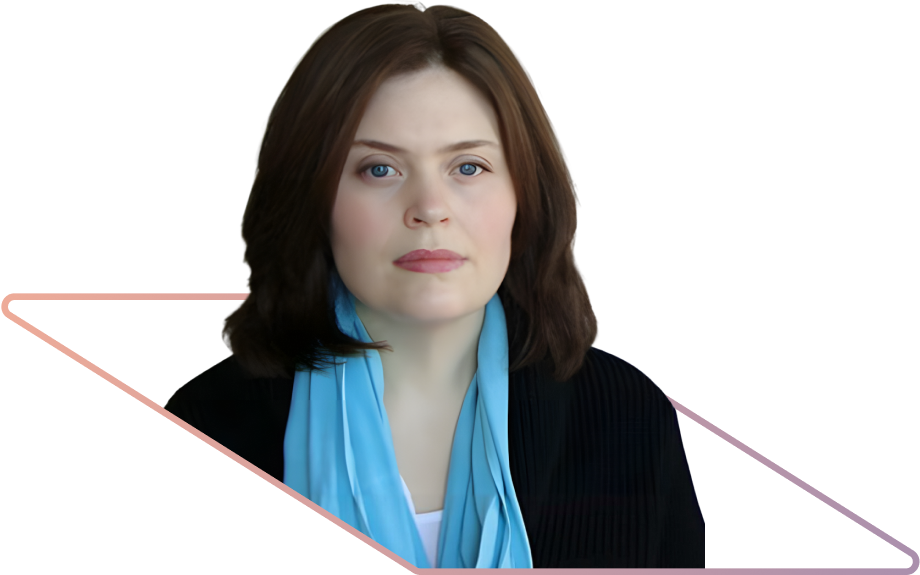
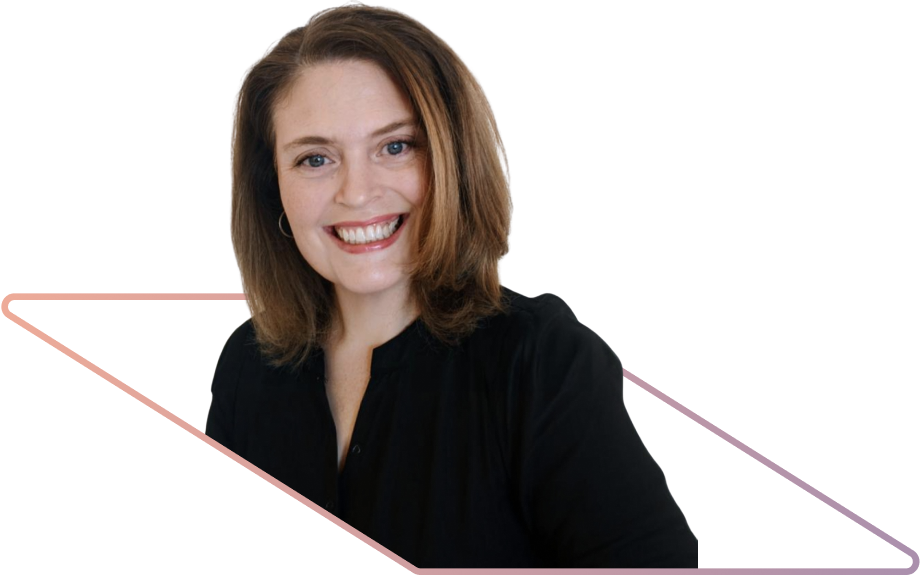
added new speakers

Changed region(s): [[0.2435, 0.0, 0.6696, 1.0], [0.6696, 0.6209, 0.7913, 1.0], [0.1826, 0.6209, 0.2435, 0.7687]]

diff --git a/js/speakers.js b/js/speakers.js
@@ -17,7 +17,7 @@ export const SPEAKERS = [
   { name: "Geetika Dadlani", role: "Head, Giving Pi & Associate Director, Dasra", summit: "What bold giving looks like from the inside", photo: "assets/speakers/Geetika Dadlani.png" },
   { name: "Ninad Karpe", role: "Founder & Partner, 100xVC", summit: "The moonshot investment thesis", photo: "assets/speakers/Ninad Karpe.png" },
   { name: "Nirav Khambhati", role: "Partner, The Blended Finance Company", summit: "The case for funding innovation", photo: "assets/speakers/Nirav Khambhati.png" },
-  { name: "Dr. Maneesh Mishra", role: "VP, Jindal Steel & Head, Naveen Jindal Foundation", summit: "The ground reality of scale", photo: "" },
+  { name: "Dr. Maneesh Mishra", role: "VP, Jindal Steel & Head, Naveen Jindal Foundation", summit: "The ground reality of scale", photo: "assets/speakers/Maneesh Mishra.png" },
   { name: "Bilal Jaleel", role: "Director, WTF Media", summit: "How narrative can be an impact metric", photo: "assets/speakers/Bilal Jaleel.png" },
 ];
 
